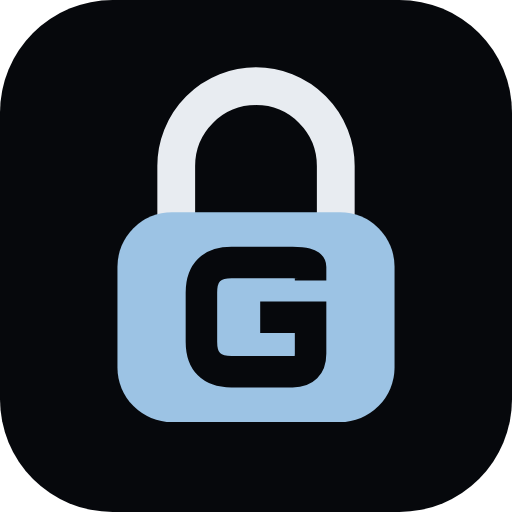
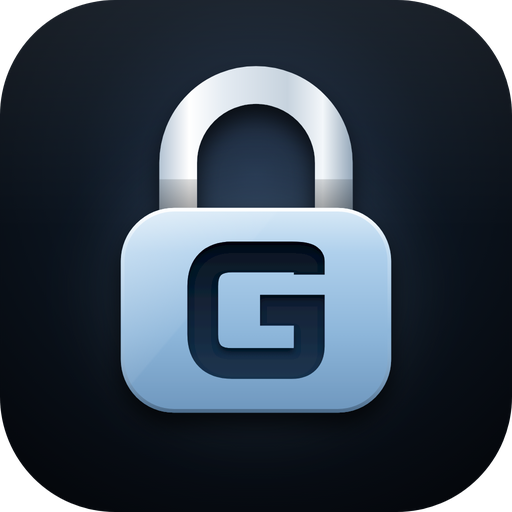
El icono de GUARDIANA, con profundidad (dueño, 28 Oct 2026, 18:00: «que se vea un poco más… efectos de sombra, difuminado… alguna cosa más profesional»). El mismo candado con la G del símbolo (marca/guardiana-simbolo.svg), ahora con el arco de metal con brillo, el cuerpo de acero con luz arriba y un
Claude-Session: https://claude.ai/code/session_01QBNpYbJ8VDrrTWb5iqzbqA

diff --git a/orbita/comunicaciones/index.html b/orbita/comunicaciones/index.html
@@ -16,11 +16,12 @@
      inicio: quien ya la tenía la quita y la vuelve a añadir una vez. -->
 <meta name="apple-mobile-web-app-status-bar-style" content="black">
 <meta name="apple-mobile-web-app-title" content="GUARDIANA">
-<link rel="apple-touch-icon" href="/icon-192.png">
+<!-- el icono de la app, con profundidad (dueño, 28 Oct 2026, 18:00: «efectos de sombra, difuminado… más profesional»): el de
+     180 × 180 sin esquinas (las pone el iPhone); marca/guardiana-icono-app.svg es su original -->
+<link rel="apple-touch-icon" sizes="180x180" href="/apple-touch-icon.png?v=2">
 <meta name="description" content="GUARDIANA Comunicaciones, para particulares y profesionales con clientes: chat, llamadas y envío de datos y documentación sensible, encriptados de extremo a extremo entre dos navegadores, con un código de 9 cifras o, en la sesión blindada, con un enlace. Los servidores no guardan mensajes ni archivos.">
 <title>GUARDIANA</title>
 <link rel="icon" href="/favicon.ico">
-<link rel="apple-touch-icon" href="/apple-touch-icon.png">
 <link rel="stylesheet" href="componentes.css?v=20261028m">
 <link rel="stylesheet" href="app.css?v=20261029o">
 <link rel="stylesheet" href="viaje.css?v=20261028a">
